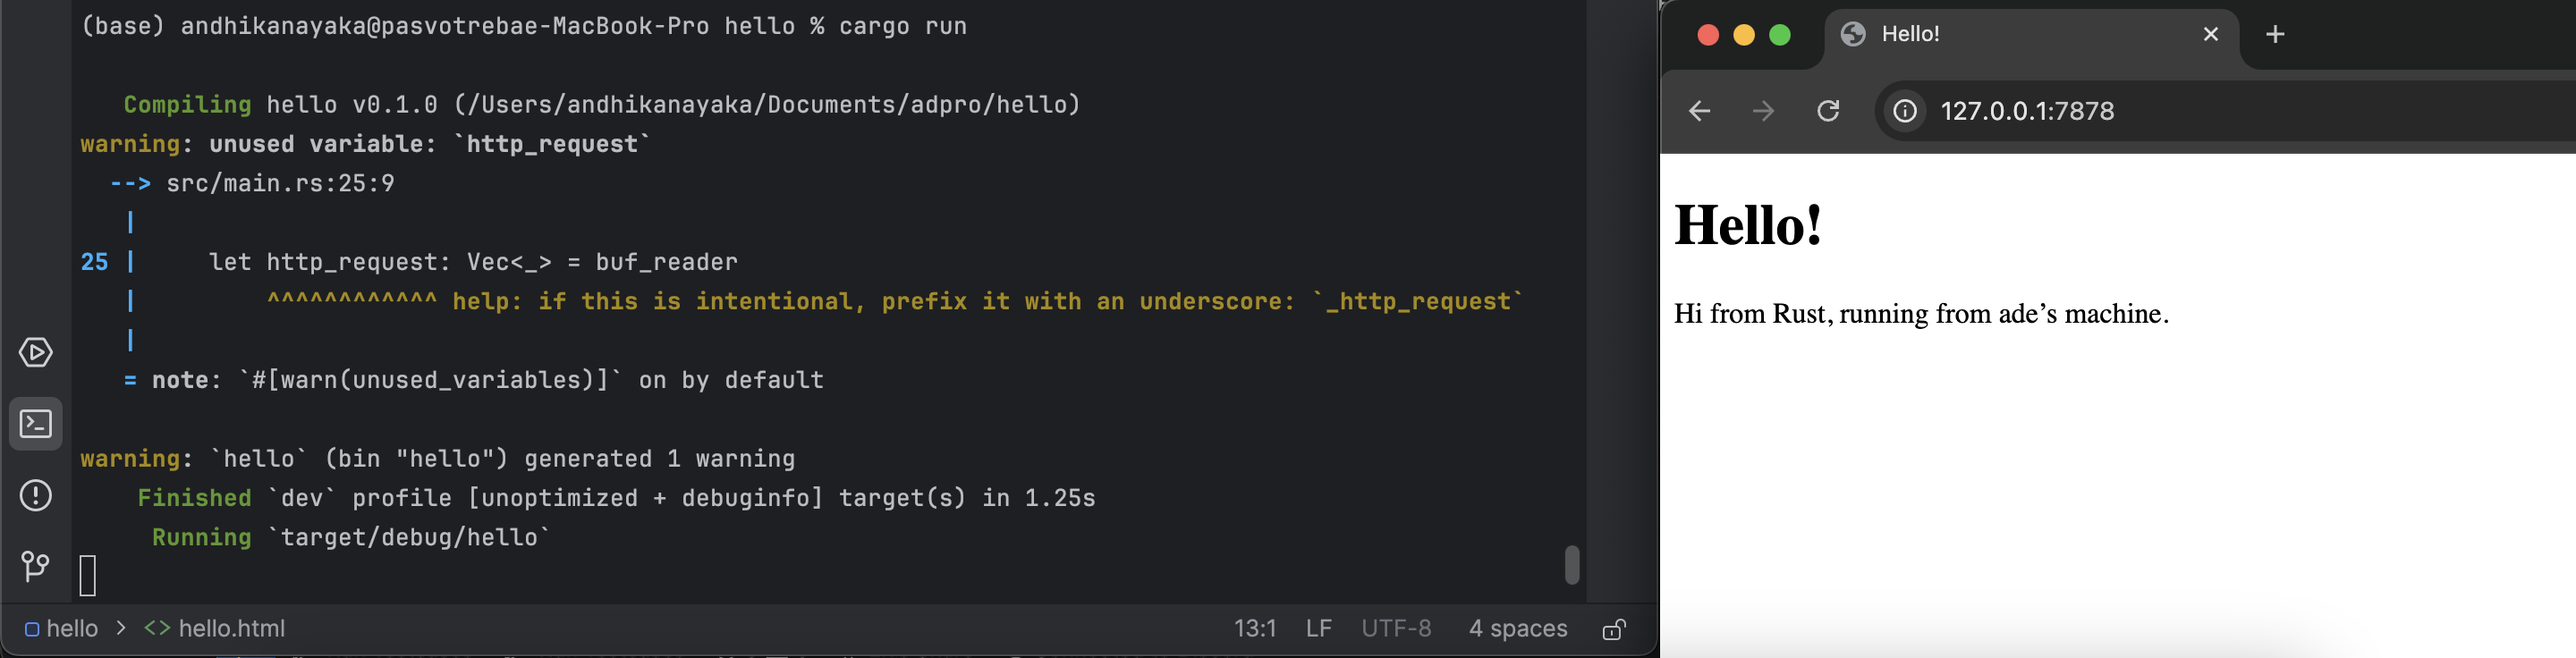
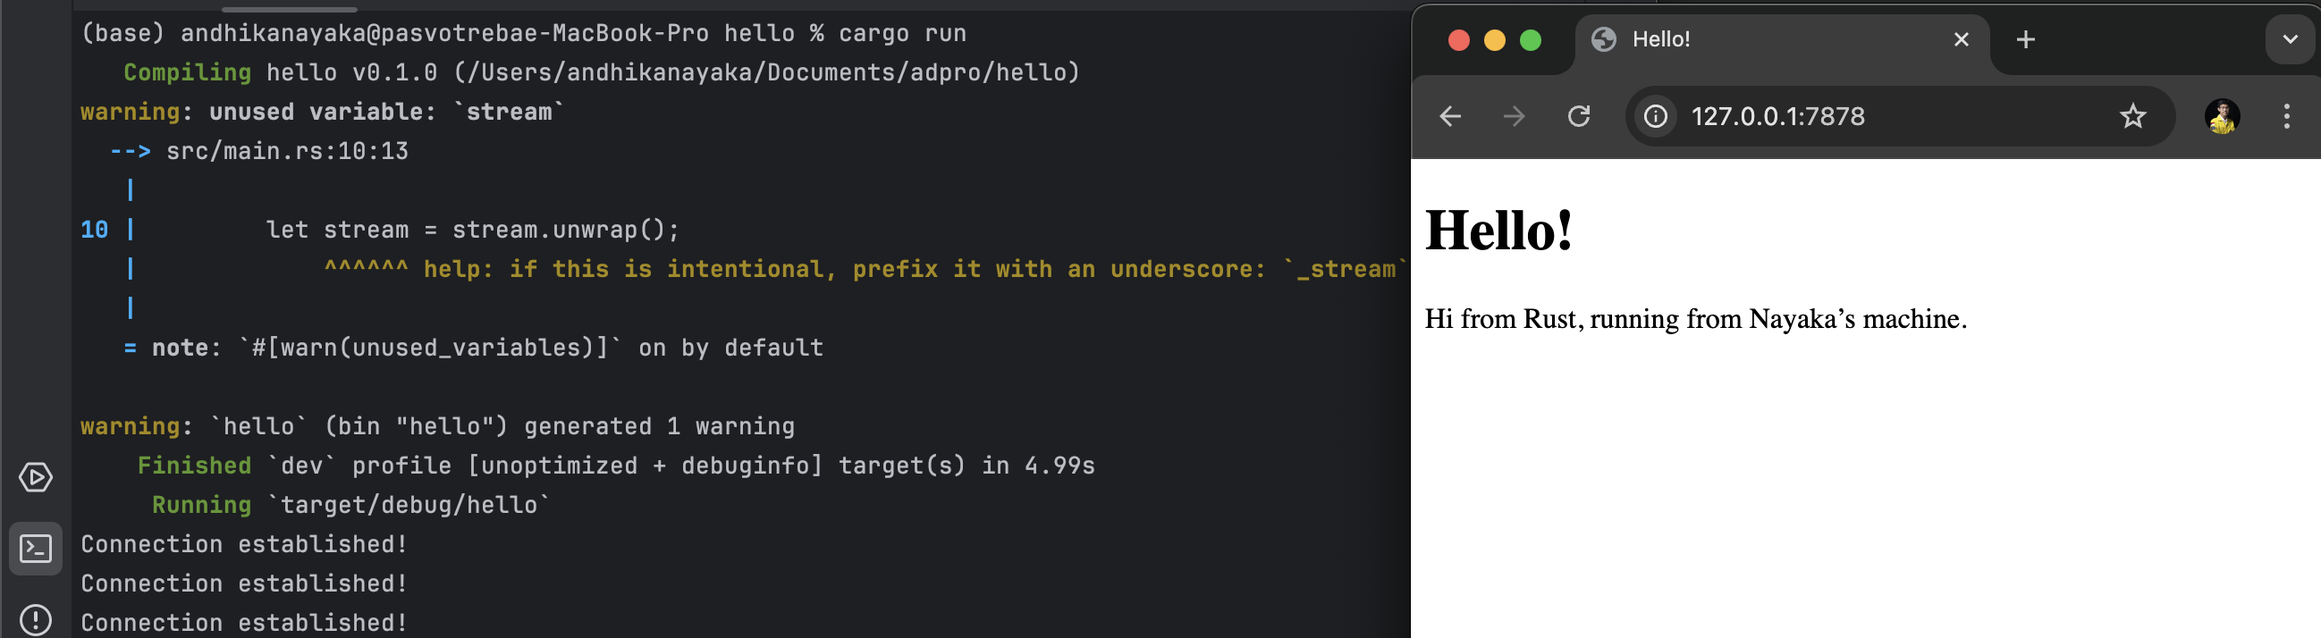
(3) Validating request and selectively responding

diff --git a/404.html b/404.html
@@ -1,0 +1,12 @@
+<!DOCTYPE html>
+<html lang="en">
+<head>
+    <meta charset="utf-8">
+    <title>Hello!</title>
+</head>
+<body>
+<h1>Oops!</h1>
+<p>Sorry, I don't know what you're asking for.</p>
+<p>Rust is running from Nayaka’s machine</p>
+</body>
+</html>

diff --git a/hello.html b/hello.html
@@ -7,6 +7,6 @@
 </head>
 <body>
 <h1>Hello!</h1>
-<p>Hi from Rust, running from ade’s machine.</p>
+<p>Hi from Rust, running from Nayaka’s machine.</p>
 </body>
 </html>

diff --git a/src/main.rs b/src/main.rs
@@ -22,15 +22,16 @@ fn main() {
 
 fn handle_connection(mut stream: TcpStream) {
     let buf_reader = BufReader::new(&mut stream);
-    let http_request: Vec<_> = buf_reader
-        .lines()
-        .map(|result| result.unwrap())
-        .take_while(|line| !line.is_empty())
-        .collect();
+    let request_line = buf_reader.lines().next().unwrap().unwrap();
 
 
-    let status_line = "HTTP/1.1 200 OK";
-    let contents = fs::read_to_string("hello.html").unwrap();
+    let (status_line, filename) = if request_line == "GET / HTTP/1.1" {
+        ("HTTP/1.1 200 OK", "hello.html")
+    } else {
+        ("HTTP/1.1 404 NOT FOUND", "404.html")
+    };
+
+    let contents = fs::read_to_string(filename).unwrap();
     let length = contents.len();
 
 

diff --git a/README.md b/README.md
@@ -23,3 +23,14 @@ A key takeaway from this update is the importance of the `Content-Length` header
 4. The **actual HTML content**
 
 By ensuring the response follows this format, the browser can correctly interpret and render the webpage.  
+
+## Commit 3: Reflection Notes
+
+![Commit 3 screen capture](/assets/images/commit3.png)
+
+In this milestone, I implemented conditional response logic in the `handle_connection` method to serve different pages based on the requested path. The key idea was to inspect the request line from the browser and return an appropriate response:
+
+- If the request is for `/` (`GET / HTTP/1.1`), the server responds with a `200 OK` status and serves `hello.html`.
+- If the request is for any other path (e.g., `/bad`), the server returns a `404 NOT FOUND` status and serves a custom `404.html` file.
+
+This simple request validation ensures that only valid URLs return content, mimicking real-world web server behavior.
